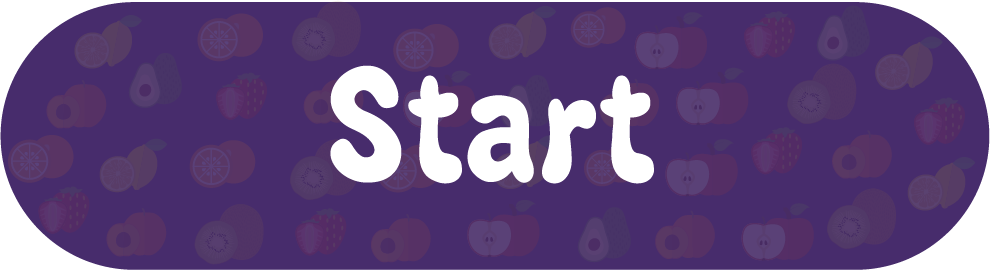
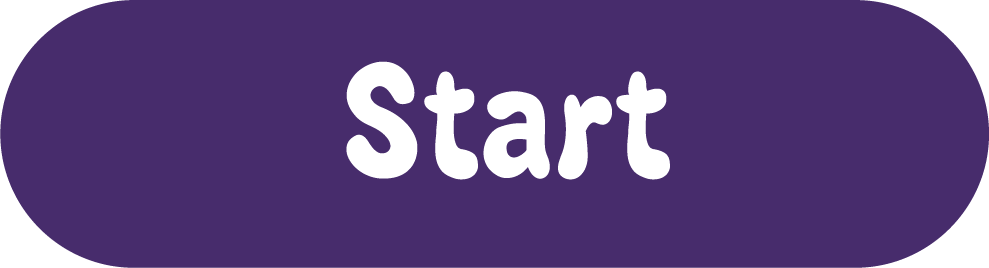
(UI): alterando design do menu

diff --git a/Mixed Juice.playground/Sources/Views/Game/GameView.swift b/Mixed Juice.playground/Sources/Views/Game/GameView.swift
@@ -68,102 +68,118 @@ public struct GameView: View {
     }
     
     public var body: some View {
-        VStack(alignment: .center) {
-            
-            //// Ingredients
-            ZStack {
-                Image(uiImage: bigShelfImage)
-                    .resizable()
-                    .frame(width: 525, height: 55, alignment: /*@START_MENU_TOKEN@*/.center/*@END_MENU_TOKEN@*/)
+        ZStack {
+            VStack(alignment: .center) {
                 
-                HStack {
-                    Image(uiImage: strawberryImage)
+                //// Ingredients
+                ZStack {
+                    Image(uiImage: bigShelfImage)
                         .resizable()
-                        .frame(width: 80, height: 80, alignment: /*@START_MENU_TOKEN@*/.center/*@END_MENU_TOKEN@*/)
-                        .scaleEffect(getScaleEffect(fruit: strawberryImage))
-                        .scaledToFill()
-                        .padding()
-                        .onTapGesture {
-                            self.selectedFruit(fruit: strawberryImage)
-                        }
-                        .shadow(radius: thisFruitIsSelected(fruit: strawberryImage) ? 2.0 : 0)
-                        .opacity(thisFruitIsSelected(fruit: strawberryImage) || !self.game.hasFruitSelected ? 1.0 : 0.75)
+                        .frame(width: 525, height: 55, alignment: /*@START_MENU_TOKEN@*/.center/*@END_MENU_TOKEN@*/)
+                    
+                    HStack {
+                        Image(uiImage: strawberryImage)
+                            .resizable()
+                            .frame(width: 80, height: 80, alignment: /*@START_MENU_TOKEN@*/.center/*@END_MENU_TOKEN@*/)
+                            .scaleEffect(getScaleEffect(fruit: strawberryImage))
+                            .scaledToFill()
+                            .padding()
+                            .onTapGesture {
+                                self.selectedFruit(fruit: strawberryImage)
+                            }
+                            .shadow(radius: thisFruitIsSelected(fruit: strawberryImage) ? 2.0 : 0)
+                            .opacity(thisFruitIsSelected(fruit: strawberryImage) || !self.game.hasFruitSelected ? 1.0 : 0.75)
 
-                    
-                    Image(uiImage: orangeImage)
-                        .resizable()
-                        .frame(width: 80, height: 80, alignment: .center)
-                        .scaleEffect(getScaleEffect(fruit: orangeImage))
-                        .shadow(radius: thisFruitIsSelected(fruit: orangeImage) ? 2.0 : 0)
-                        .scaledToFill()
-                        .padding()
-                        .onTapGesture {
-                            self.selectedFruit(fruit: orangeImage)
-                        }
-                        .opacity(withAnimation(Animation.linear(duration: 2.0)) {
-                                    thisFruitIsSelected(fruit: orangeImage) || !self.game.hasFruitSelected ? 1.0 : 0.75
-                        })
-                    
-                    Image(uiImage: avocadoImage)
-                        .resizable()
-                        .frame(width: 80, height: 80, alignment: /*@START_MENU_TOKEN@*/.center/*@END_MENU_TOKEN@*/)
-                        .scaleEffect(getScaleEffect(fruit: avocadoImage))
-                        .shadow(radius: thisFruitIsSelected(fruit: avocadoImage) ? 2.0 : 0)
-                        .scaledToFill()
-                        .padding()
-                        .onTapGesture {
-                            self.selectedFruit(fruit: avocadoImage)
-                        }
-                        .opacity(thisFruitIsSelected(fruit: avocadoImage) || !self.game.hasFruitSelected ? 1.0 : 0.75)
-                    
-                    Image(uiImage: peachImage)
-                        .resizable()
-                        .frame(width: 80, height: 80, alignment: /*@START_MENU_TOKEN@*/.center/*@END_MENU_TOKEN@*/)
-                        .scaleEffect(getScaleEffect(fruit: peachImage))
-                        .shadow(radius: thisFruitIsSelected(fruit: peachImage) ? 2.0 : 0)
-                        .scaledToFill()
-                        .padding()
-                        .onTapGesture {
-                            self.selectedFruit(fruit: peachImage)
-                        }
-                        .opacity(thisFruitIsSelected(fruit: peachImage) || !self.game.hasFruitSelected ? 1.0 : 0.75)
+                        
+                        Image(uiImage: orangeImage)
+                            .resizable()
+                            .frame(width: 80, height: 80, alignment: .center)
+                            .scaleEffect(getScaleEffect(fruit: orangeImage))
+                            .shadow(radius: thisFruitIsSelected(fruit: orangeImage) ? 2.0 : 0)
+                            .scaledToFill()
+                            .padding()
+                            .onTapGesture {
+                                self.selectedFruit(fruit: orangeImage)
+                            }
+                            .opacity(withAnimation(Animation.linear(duration: 2.0)) {
+                                        thisFruitIsSelected(fruit: orangeImage) || !self.game.hasFruitSelected ? 1.0 : 0.75
+                            })
+                        
+                        Image(uiImage: avocadoImage)
+                            .resizable()
+                            .frame(width: 80, height: 80, alignment: /*@START_MENU_TOKEN@*/.center/*@END_MENU_TOKEN@*/)
+                            .scaleEffect(getScaleEffect(fruit: avocadoImage))
+                            .shadow(radius: thisFruitIsSelected(fruit: avocadoImage) ? 2.0 : 0)
+                            .scaledToFill()
+                            .padding()
+                            .onTapGesture {
+                                self.selectedFruit(fruit: avocadoImage)
+                            }
+                            .opacity(thisFruitIsSelected(fruit: avocadoImage) || !self.game.hasFruitSelected ? 1.0 : 0.75)
+                        
+                        Image(uiImage: peachImage)
+                            .resizable()
+                            .frame(width: 80, height: 80, alignment: /*@START_MENU_TOKEN@*/.center/*@END_MENU_TOKEN@*/)
+                            .scaleEffect(getScaleEffect(fruit: peachImage))
+                            .shadow(radius: thisFruitIsSelected(fruit: peachImage) ? 2.0 : 0)
+                            .scaledToFill()
+                            .padding()
+                            .onTapGesture {
+                                self.selectedFruit(fruit: peachImage)
+                            }
+                            .opacity(thisFruitIsSelected(fruit: peachImage) || !self.game.hasFruitSelected ? 1.0 : 0.75)
 
-                }
-                .offset(y: -47)
-            }
-            .padding(-100)
-            
-            //// Blender and Booth
-            VStack(alignment: .center){
-                
-                BoothView(game: game)
-                    .padding()
-                    .offset(y: 300)
-                
-                HStack(alignment: .center) {
-                    BlenderView(game: game)
-                        .padding(.trailing, 50)
-                    
-                    ZStack {
-                        CardReceipeView(game: self.game)
-                            .frame(width: 350, height: 230, alignment: .top)
-                            .padding(.leading, 50)
-                            .offset(y: -70)
-                        
-                        Text(self.game.fruitsCount == 4 ? "Turn on the blender to mix juice!" : "")
-                            .offset(x: 20, y: 90)
-                        
                     }
+                    .offset(y: -47)
                 }
-                .offset(y: -170)
-                .padding(.horizontal)
+                .padding(-100)
+                
+                //// Blender and Booth
+                VStack(alignment: .center){
+                    
+                    BoothView(game: game)
+                        .padding()
+                        .offset(y: 300)
+                    
+                    HStack(alignment: .center) {
+                        BlenderView(game: game)
+                            .padding(.trailing, 50)
+                        
+                        ZStack {
+                            CardReceipeView(game: self.game)
+                                .frame(width: 350, height: 230, alignment: .top)
+                                .padding(.leading, 50)
+                                .offset(y: -70)
+                            
+                            Text(self.game.fruitsCount == 4 ? "Turn on the blender to mix juice!" : "")
+                                .offset(x: 20, y: 90)
+                            
+                        }
+                    }
+                    .offset(y: -170)
+                    .padding(.horizontal)
+                }
             }
+            .frame(width: 770, height: 1000, alignment: .center)
+            .background(
+                Image(uiImage: backgroundImage)
+                    .resizable()
+                    .frame(width: 770, height: UIScreen.main.bounds.height, alignment: /*@START_MENU_TOKEN@*/.center/*@END_MENU_TOKEN@*/)
+                    )
+            
+//            VStack {
+//                Spacer()
+//                ConfigurationView(gameViewIsActive: $rootIsActive, showConfig: $showConfig, environment: environment, isPause: true)
+//                    .offset(y: self.showConfig ? 0 : UIScreen.main.bounds.height)
+//                    .padding(.bottom)
+//                    .padding(.bottom) // sao dois mesmo hehe
+//            }
+//            .background(VisualEffectView(effect: UIBlurEffect(style: .dark))
+//                            .edgesIgnoringSafeArea(.all)
+//                            .frame(width: UIScreen.main.bounds.width, height: UIScreen.main.bounds.height, alignment: /*@START_MENU_TOKEN@*/.center/*@END_MENU_TOKEN@*/)
+//                            .opacity((self.showConfig ? 1 : 0)))
+        .animation(.default)
+            
         }
-        .frame(width: 770, height: 1000, alignment: .center)
-        .background(
-            Image(uiImage: backgroundImage)
-                .resizable()
-                .frame(width: 770, height: UIScreen.main.bounds.height, alignment: /*@START_MENU_TOKEN@*/.center/*@END_MENU_TOKEN@*/)
-        )
     }
 }

diff --git a/Mixed Juice.playground/Sources/Views/Menu/MenuView.swift b/Mixed Juice.playground/Sources/Views/Menu/MenuView.swift
@@ -13,7 +13,9 @@ public struct MenuView: View {
                 Image(uiImage: startButtonImage)
                     .resizable()
                     .frame(width: 330, height: 90, alignment: .center)
+                    .shadow(radius: 5.0)
             })
+            .offset(y: 50)
         }
         .frame(width: 770, height: 1000, alignment: .center)
         .background(Image(uiImage: menuBackgroundImage).resizable().frame(width: 770, height: 1000, alignment: .center))
